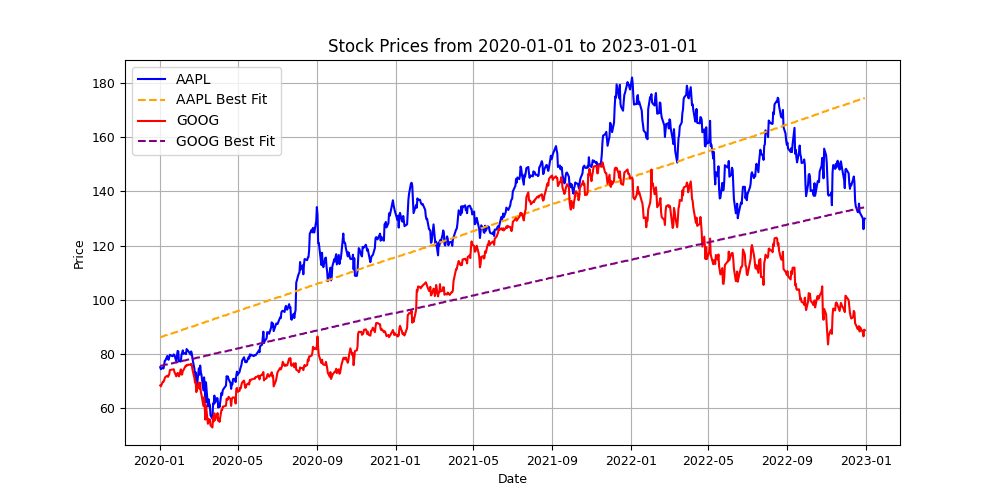
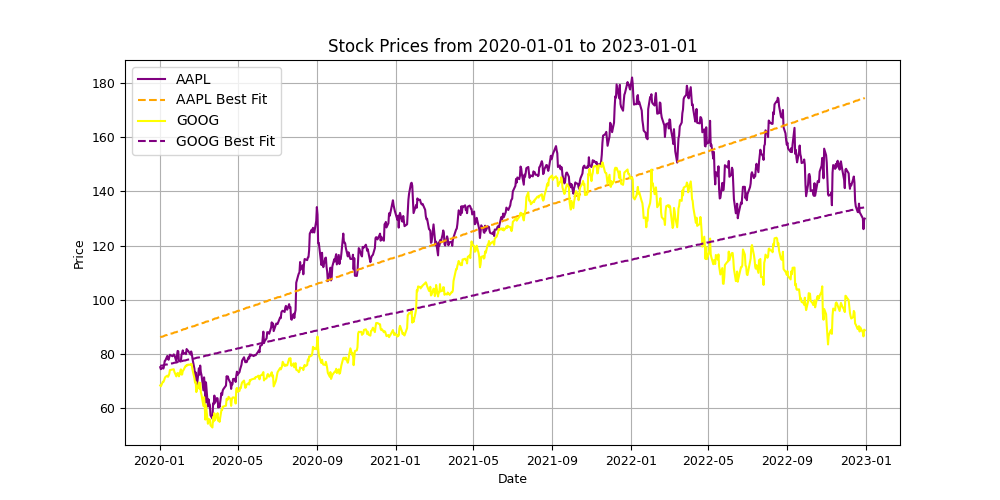
added data validity checks and improved UI

Changed region(s): [[0.155, 0.15, 0.868, 0.87], [0.279, 0.6, 0.31, 0.63]]

diff --git a/SRE_Stockulator/.venv/templates/index.html b/SRE_Stockulator/.venv/templates/index.html
@@ -4,6 +4,40 @@
     <meta charset="UTF-8">
     <meta name="viewport" content="width=device-width, initial-scale=1.0">
     <title>Stockulator</title>
+    <script>
+        // Function to update the color options for both stock color dropdowns
+        function updateColorOptions() {
+            var color1 = document.getElementById("color1").value;
+            var color2 = document.getElementById("color2").value;
+            var color1Options = document.getElementById("color1").options;
+            var color2Options = document.getElementById("color2").options;
+
+            // Enable all colors in both dropdowns initially
+            for (var i = 0; i < color1Options.length; i++) {
+                color1Options[i].disabled = false;
+                color2Options[i].disabled = false;
+            }
+
+            // Disable the selected color from color1 in color2 dropdown
+            for (var i = 0; i < color2Options.length; i++) {
+                if (color2Options[i].value === color1) {
+                    color2Options[i].disabled = true;
+                }
+            }
+
+            // Disable the selected color from color2 in color1 dropdown
+            for (var i = 0; i < color1Options.length; i++) {
+                if (color1Options[i].value === color2) {
+                    color1Options[i].disabled = true;
+                }
+            }
+        }
+
+        // Automatically update color options on page load (if colors are pre-selected)
+        window.onload = function() {
+            updateColorOptions();
+        }
+    </script>
 </head>
 <body>
     <h1>STOCKULATOR</h1>
@@ -21,7 +55,7 @@
 
     <form method="POST">
         <label for="stockname">Stock Name:</label>
-        <input type="text" id="stockname" name="stockname" value="{{ stockname or 'AAPL' }}"><br><br>
+        <input type="text" id="stockname" name="stockname" value="{{ stockname or 'AAPL' }}" placeholder="Enter stock symbol"><br><br>
 
         <label for="start">Start Date:</label>
         <input type="date" id="start" name="start" value="{{ start or '2020-01-01' }}"><br><br>
@@ -36,20 +70,28 @@
         </select><br><br>
 
         <label for="color1">Color for Stock 1:</label>
-        <select id="color1" name="color1">
+        <select id="color1" name="color1" onchange="updateColorOptions()">
             <option value="blue" {% if color1 == 'blue' %}selected{% endif %}>Blue</option>
             <option value="red" {% if color1 == 'red' %}selected{% endif %}>Red</option>
             <option value="green" {% if color1 == 'green' %}selected{% endif %}>Green</option>
+            <option value="yellow" {% if color1 == 'yellow' %}selected{% endif %}>Yellow</option>
+            <option value="purple" {% if color1 == 'purple' %}selected{% endif %}>Purple</option>
+            <option value="orange" {% if color1 == 'orange' %}selected{% endif %}>Orange</option>
+            <option value="pink" {% if color1 == 'pink' %}selected{% endif %}>Pink</option>
         </select><br><br>
 
         <label for="stockname2">Second Stock Name (optional):</label>
         <input type="text" id="stockname2" name="stockname2" value="{{ stockname2 or '' }}" placeholder="Enter second stock symbol"><br><br>
 
         <label for="color2">Color for Stock 2:</label>
-        <select id="color2" name="color2">
-            <option value="red" {% if color2 == 'red' %}selected{% endif %}>Red</option>
-            <option value="green" {% if color2 == 'green' %}selected{% endif %}>Green</option>
+        <select id="color2" name="color2" onchange="updateColorOptions()">
             <option value="blue" {% if color2 == 'blue' %}selected{% endif %}>Blue</option>
+            <option value="red" {% if color2 == 'red' or not color2 %}selected{% endif %}>Red</option>  <!-- Default to Red -->
+            <option value="green" {% if color2 == 'green' %}selected{% endif %}>Green</option>
+            <option value="yellow" {% if color2 == 'yellow' %}selected{% endif %}>Yellow</option>
+            <option value="purple" {% if color2 == 'purple' %}selected{% endif %}>Purple</option>
+            <option value="orange" {% if color2 == 'orange' %}selected{% endif %}>Orange</option>
+            <option value="pink" {% if color2 == 'pink' %}selected{% endif %}>Pink</option>
         </select><br><br>
 
         <label for="bestfit">Add Line of Best Fit:</label>

diff --git a/SRE_Stockulator/.venv/main.py b/SRE_Stockulator/.venv/main.py
@@ -7,6 +7,7 @@ import yfinance as yf
 import os
 import numpy as np
 from flask import Flask, render_template, request, redirect, url_for, flash
+from datetime import datetime
 
 app = Flask(__name__)
 app.secret_key = 'your_secret_key'  # Needed for flash messages
@@ -27,6 +28,18 @@ def index():
         try:
             start_date_parsed = pd.to_datetime(start_date.strip())  # 'YYYY-MM-DD' format from date picker
             end_date_parsed = pd.to_datetime(end_date.strip())
+            current_date = pd.to_datetime(datetime.now())  # Get the current date
+
+            # Check if the start date is after the end date, and swap them if necessary
+            if start_date_parsed > end_date_parsed:
+                start_date_parsed, end_date_parsed = end_date_parsed, start_date_parsed
+                flash("Start date was after the end date, so the dates have been swapped.")
+
+            # Clip the end date to the current date if it's in the future
+            if end_date_parsed > current_date:
+                end_date_parsed = current_date
+                flash(f"End date was after the current date and has been clipped to {current_date.strftime('%Y-%m-%d')}.")
+
             print(f"Parsed start date: {start_date_parsed}, Parsed end date: {end_date_parsed}")  # Debugging line
         except ValueError:
             flash("Invalid date format. Please use the date picker.")
@@ -40,6 +53,11 @@ def index():
         # Download stock1 data from yfinance
         data1 = yf.download(stock1, start=start_date_parsed, end=end_date_parsed)
 
+        # Check if data1 is empty
+        if data1.empty:
+            flash(f"No data found for {stock1} within the specified date range.")
+            return redirect(url_for('index'))
+
         # Resample data based on time_step
         if time_step == "1 week":
             data1 = data1.resample('W').ffill()  # Resample weekly
@@ -48,6 +66,10 @@ def index():
         data2 = None
         if stock2:
             data2 = yf.download(stock2, start=start_date_parsed, end=end_date_parsed)
+            # Check if data2 is empty
+            if data2.empty:
+                flash(f"No data found for {stock2} within the specified date range.")
+                return redirect(url_for('index'))
             if time_step == "1 week":
                 data2 = data2.resample('W').ffill()  # Resample weekly
 
@@ -61,9 +83,17 @@ def index():
         if show_best_fit:
             x_values = np.arange(len(data1))  # Create a sequence of numbers as x-axis values
             y_values = data1['Close'].values
-            coeffs = np.polyfit(x_values, y_values, 1)  # Linear regression (1st-degree polynomial)
-            best_fit_line = np.polyval(coeffs, x_values)  # Generate y-values for the line
-            ax.plot(data1.index, best_fit_line, color='orange', linestyle='--', label=f'{stock1} Best Fit')
+
+            # Check for NaN, Inf, or degenerate data
+            if len(x_values) > 1 and len(np.unique(y_values)) > 1 and np.all(np.isfinite(y_values)):
+                try:
+                    coeffs = np.polyfit(x_values, y_values, 1)  # Linear regression (1st-degree polynomial)
+                    best_fit_line = np.polyval(coeffs, x_values)  # Generate y-values for the line
+                    ax.plot(data1.index, best_fit_line, color='orange', linestyle='--', label=f'{stock1} Best Fit')
+                except np.linalg.LinAlgError:
+                    flash(f"Could not generate a line of best fit for {stock1} due to data issues.")
+            else:
+                flash(f"Insufficient data to generate a best fit line for {stock1}.")
 
         # Plot stock 2 (if selected)
         if data2 is not None:
@@ -73,9 +103,17 @@ def index():
             if show_best_fit:
                 x_values2 = np.arange(len(data2))
                 y_values2 = data2['Close'].values
-                coeffs2 = np.polyfit(x_values2, y_values2, 1)
-                best_fit_line2 = np.polyval(coeffs2, x_values2)
-                ax.plot(data2.index, best_fit_line2, color='purple', linestyle='--', label=f'{stock2} Best Fit')
+
+                # Check for NaN, Inf, or degenerate data
+                if len(x_values2) > 1 and len(np.unique(y_values2)) > 1 and np.all(np.isfinite(y_values2)):
+                    try:
+                        coeffs2 = np.polyfit(x_values2, y_values2, 1)
+                        best_fit_line2 = np.polyval(coeffs2, x_values2)
+                        ax.plot(data2.index, best_fit_line2, color='purple', linestyle='--', label=f'{stock2} Best Fit')
+                    except np.linalg.LinAlgError:
+                        flash(f"Could not generate a line of best fit for {stock2} due to data issues.")
+                else:
+                    flash(f"Insufficient data to generate a best fit line for {stock2}.")
 
         # Reduce axis text size by 25%
         ax.set_xlabel("Date", fontsize=9)
@@ -105,8 +143,8 @@ def index():
 
         # Pass back the form data to retain in the form after submission
         return render_template('index.html',
-                               start=start_date,
-                               end=end_date,
+                               start=start_date_parsed.strftime('%Y-%m-%d'),
+                               end=end_date_parsed.strftime('%Y-%m-%d'),  # Send back clipped date if necessary
                                stockname=stock1,
                                stockname2=stock2,
                                color1=request.form['color1'],
